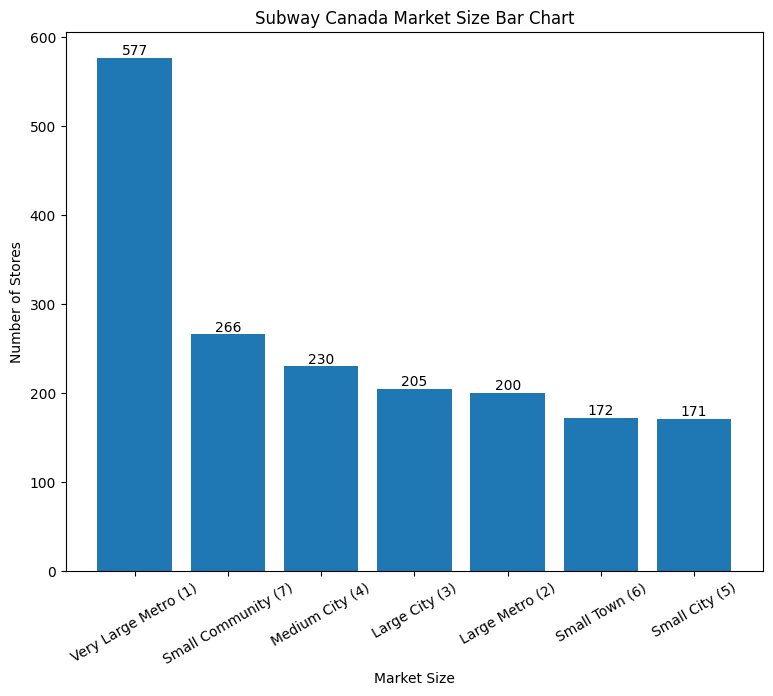
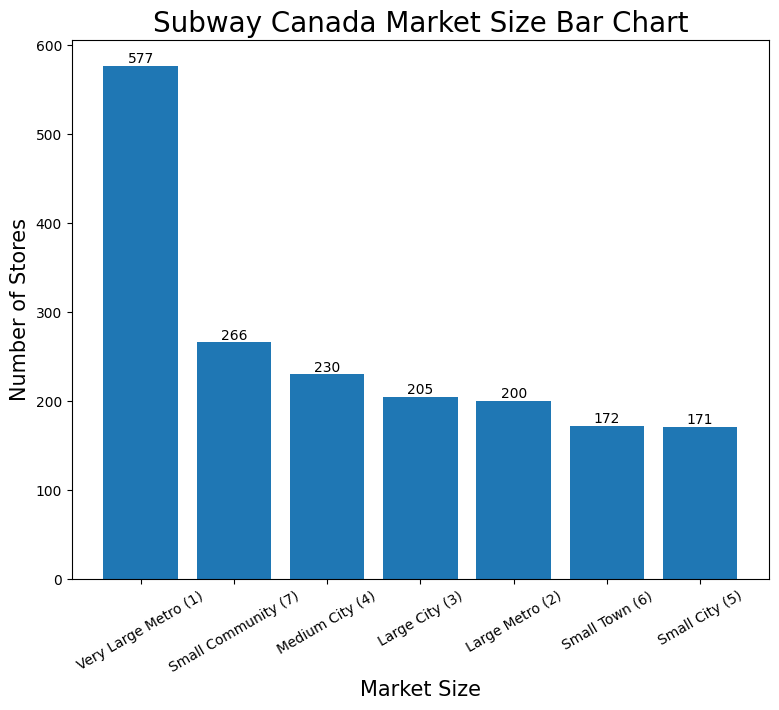
increase label font size for plots

diff --git a/src/create_eda_figure.py b/src/create_eda_figure.py
@@ -18,9 +18,9 @@ def create_bar_chart(df, col_name, xlab, title, out_dir):
     counts = df[col_name].value_counts()
     plt.figure(figsize=(9,7))
     fig = plt.bar(counts.index, counts.values)
-    plt.xlabel(xlab)
-    plt.ylabel("Number of Stores")
-    plt.title(title)
+    plt.xlabel(xlab, fontsize=15)
+    plt.ylabel("Number of Stores", fontsize=15)
+    plt.title(title, fontsize=20)
     plt.xticks(rotation=30)
     plt.bar_label(fig, label_type="edge")
     try:
@@ -44,9 +44,9 @@ def create_stack_bar_chart(df, col_name, title, out_dir):
     # for container in ax.containers:
     #     ax.bar_label(container, labels=[f'{x:.1f}%' for x in container.datavalues])
 
-    ax.set_xlabel('Category')
-    ax.set_ylabel('Percentage')
-    ax.set_title(title)
+    ax.set_xlabel('Category', fontsize=15)
+    ax.set_ylabel('Percentage', fontsize=15)
+    ax.set_title(title, fontsize=20)
     ax.legend(loc='center left', bbox_to_anchor=(1, 0.5))
     try:
         plt.savefig("img/" + out_dir + "stacked_bar_plot.png", bbox_inches="tight")
@@ -58,11 +58,13 @@ def create_boxplot(df, col_name, ylabel, title, out_dir):
     plt.figure(figsize=(9,7))
     fig = df.boxplot(
         column=[col_name], 
-        by="category",
-        xlabel="Category",
-        ylabel=ylabel
+        by="category"
+        # xlabel="Category",
+        # ylabel=ylabel
     ).get_figure()
-    plt.title(title)
+    plt.xlabel("Category", fontsize=15)
+    plt.ylabel(ylabel, fontsize=15)
+    plt.title(title, fontsize=20)
     plt.suptitle("")
     try:
         fig.savefig("img/" + out_dir + "_boxplot.png", bbox_inches="tight")
@@ -83,9 +85,9 @@ def create_scatterplot(df, x_col, y_col, groupby_col, xlab, ylab, title, out_dir
         ax[row, col].set_ybound(0, 200000000)
         ax[row, col].set_xbound(0, 1)
         ax[row, col].set_title(category)
-        plt.xlabel(xlab)
-        plt.ylabel(ylab)
-        plt.suptitle(title)
+        plt.xlabel(xlab, fontsize=15)
+        plt.ylabel(ylab, fontsize=15)
+        plt.suptitle(title, fontsize=20)
         col += 1
         if col == 2:
             row += 1
@@ -131,7 +133,7 @@ def main():
         smoothie_df, "store_density", "Stacked Bar Chart by Store Density and Category", "store_density_stack"
     )
     create_boxplot(
-        smoothie_df, "centerxy_gla_1mi", "Gross leasable area within 1 mile radius", 
+        smoothie_df, "centerxy_gla_1mi", "Gross leasable area within\n 1 mile radius", 
         "Boxplot of Gross Leasable Area within 1 mile by Category", "centerxy_gla_1mi_boxplot"
     )
     create_boxplot(
